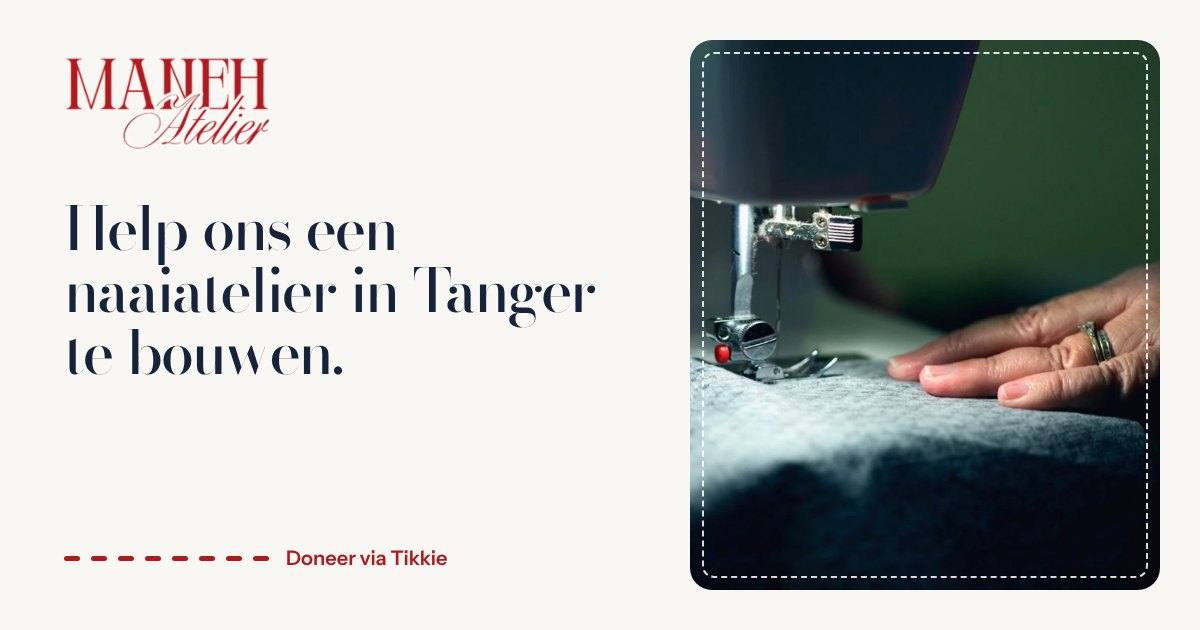
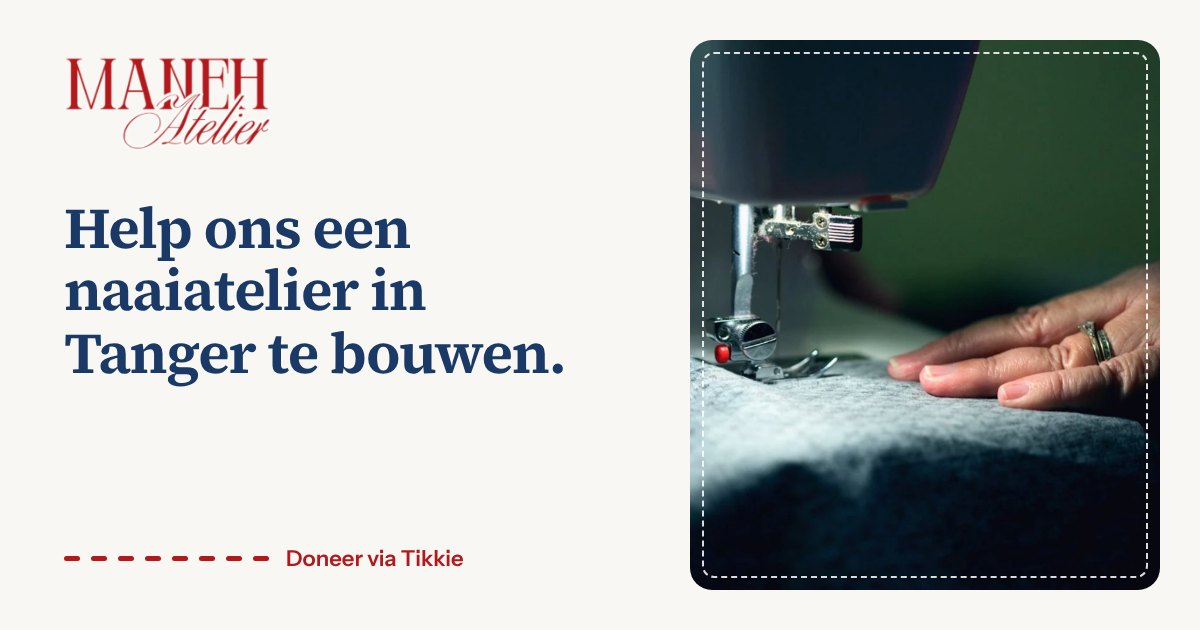
Maneh Atelier concept: leesbare koppen (Source Serif 4)
Claude-Session: https://claude.ai/code/session_018WXv6raSD4cQ1UvKdLbhw2

Changed region(s): [[0.0308, 0.3317, 0.4933, 0.6333], [0.2467, 0.8746, 0.4008, 0.9048]]

diff --git a/voorbeeld/manehatelier/index.html b/voorbeeld/manehatelier/index.html
@@ -14,10 +14,10 @@
 <meta property="og:image:width" content="1200">
 <meta property="og:image:height" content="630">
 <meta name="twitter:card" content="summary_large_image">
-<link rel="preload" href="bodoni.woff2" as="font" type="font/woff2" crossorigin>
+<link rel="preload" href="serif.woff2" as="font" type="font/woff2" crossorigin>
 <link rel="preload" href="instrument.woff2" as="font" type="font/woff2" crossorigin>
 <style>
-@font-face{font-family:"Bodoni Moda";src:url(bodoni.woff2) format("woff2");font-weight:400 900;font-style:normal;font-display:swap}
+@font-face{font-family:"Source Serif 4";src:url(serif.woff2) format("woff2");font-weight:200 900;font-style:normal;font-display:swap}
 @font-face{font-family:"Instrument Sans";src:url(instrument.woff2) format("woff2");font-weight:400 700;font-stretch:75% 100%;font-display:swap}
 :root{
   --kalk:#f8f7f3;      /* gekalkte muur */
@@ -31,7 +31,7 @@
   --kop:#1b3966;      /* koppen in diep Tanger-blauw */
   --ink-2:#3d4757;
   --lijn:rgba(22,35,58,.16);
-  --serif:"Bodoni Moda",Didot,"Bodoni 72",Georgia,serif;
+  --serif:"Source Serif 4",Georgia,"Times New Roman",serif;
   --sans:"Instrument Sans",system-ui,-apple-system,"Segoe UI",sans-serif;
   --gut:20px;
   --ease:cubic-bezier(.2,.7,.2,1);
@@ -44,8 +44,8 @@ a{color:inherit}
 :focus-visible{outline:2px solid var(--rood);outline-offset:3px;border-radius:3px}
 .wrap{max-width:1180px;margin:0 auto;padding:0 var(--gut)}
 section{scroll-margin-top:70px}
-h1,h2,h3{color:var(--kop);font-family:var(--serif);font-weight:600;margin:0;letter-spacing:-.025em;font-variation-settings:"opsz" 14}
-h1{font-variation-settings:"opsz" 20;letter-spacing:-.03em}
+h1,h2,h3{color:var(--kop);font-family:var(--serif);font-weight:600;margin:0;letter-spacing:-.015em}
+h1{font-weight:650;letter-spacing:-.022em}
 h3{font-family:var(--sans);font-weight:600;letter-spacing:-.01em;font-variation-settings:normal}
 h1{font-size:clamp(40px,10.6vw,74px);line-height:1.05}
 h2{font-size:clamp(30px,7.6vw,50px);line-height:1.1}
@@ -131,7 +131,7 @@ p{margin:0}
 .door .a2{fill:none;stroke:rgba(255,255,255,.45);stroke-width:1.2;stroke-dasharray:4 6}
 .door__star{color:#fff}
 .door blockquote{position:absolute;left:12%;right:12%;top:30%;bottom:9%;margin:0;display:flex;flex-direction:column;justify-content:center;text-align:center}
-.door blockquote p{font-family:var(--serif);font-weight:600;font-variation-settings:"opsz" 14;font-size:clamp(24px,6.6vw,36px);line-height:1.22;letter-spacing:-.01em}
+.door blockquote p{font-family:var(--serif);font-weight:500;font-size:clamp(24px,6.6vw,36px);line-height:1.22;letter-spacing:-.01em}
 .door cite{display:block;margin-top:18px;font:500 15px/1.4 var(--sans);font-style:normal;color:rgba(255,255,255,.85)}
 
 /* waar we voor staan */
@@ -143,7 +143,7 @@ p{margin:0}
 .piece__cut{position:absolute;top:-1px;left:22px;width:22px;height:22px;transform:translateY(-50%);color:var(--blauw);background:var(--blauw-l);border-radius:50%;padding:3px}
 .piece h3{margin-bottom:8px}
 .piece p{color:var(--ink-2);font-size:15.5px}
-.piece__big{font-family:var(--serif);font-weight:600;font-variation-settings:"opsz" 40;font-size:64px;line-height:.9;color:var(--rood);margin-bottom:6px}
+.piece__big{font-family:var(--serif);font-weight:600;font-size:64px;line-height:.9;color:var(--rood);margin-bottom:6px}
 
 /* ons verhaal */
 .verhaal{padding:72px 0}
